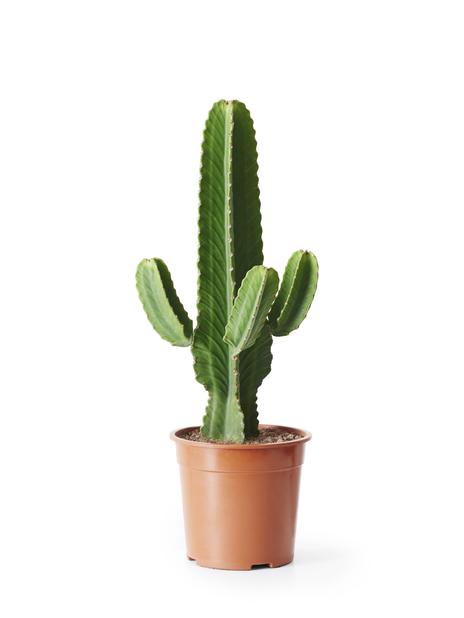
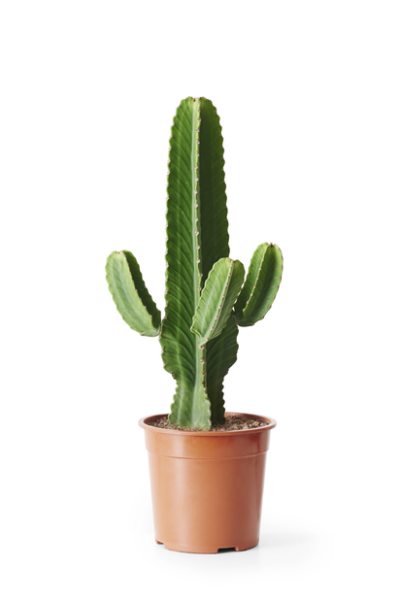
img updates, css colors

Changed region(s): [[0.24, 0.15, 0.72, 0.93]]

diff --git a/style.css b/style.css
@@ -96,7 +96,7 @@ section p {
 
 /* Section Images */
 section#cactus {
-    background: url('img/kaktus1.png') no-repeat center center/cover;
+    background: url('img/kaktus4.png') no-repeat center center/cover;
 }
 
 section#cactus .textWrapper {
@@ -111,8 +111,9 @@ section#cactus .textWrapper p {
 }
   
 section#info {
-    background-color: #5F6B57;
+    background-color: #fff;
     justify-content: space-around;
+    color: #5F6B57;
 }
 
 section#info div div div p {
@@ -134,7 +135,7 @@ section#info div div div p {
 }
 
 section#care {
-    background-color: #F4E4CD;
+    background-color: rgb(230, 225, 212);
     color: rgb(58, 31, 6);
     text-align: left;
 }
@@ -162,7 +163,8 @@ section#care {
 }
 
 section#buy {
-    background-color: #5F6B57;
+    background-color: #fff;
+    color: #5F6B57;
     height: 300vh;
     display: flex;
     flex-direction: column;
@@ -202,7 +204,9 @@ section#buy {
 
 
 footer {
-    background-color: grey;
+    /* background-color: #5F6B57; */
+    background-color: rgb(230, 225, 212);
+    color: rgb(58, 31, 6);
     display: flex;
     flex-direction: row;
     align-items: center;

diff --git a/index.html b/index.html
@@ -109,7 +109,9 @@
         </section>
     </div>
     <footer>
-        <p>Cactus&trade; Copyright © 2019<br>
+        <p>Cactus&trade; Copyright © 2019 <br>
+            <br>
+            cactusinfo@mail.com <br>
             Lärdomsgatan 3, 417 56 Göteborg</p>
     </footer>
 
